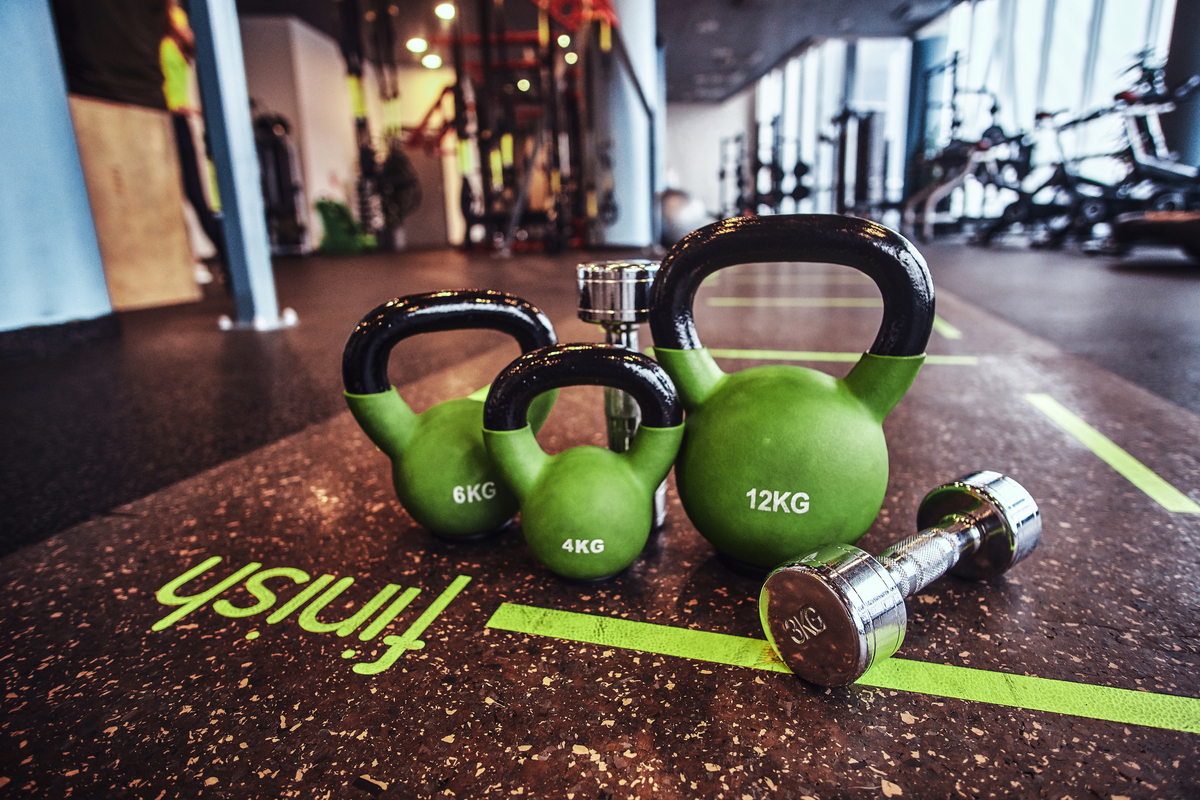
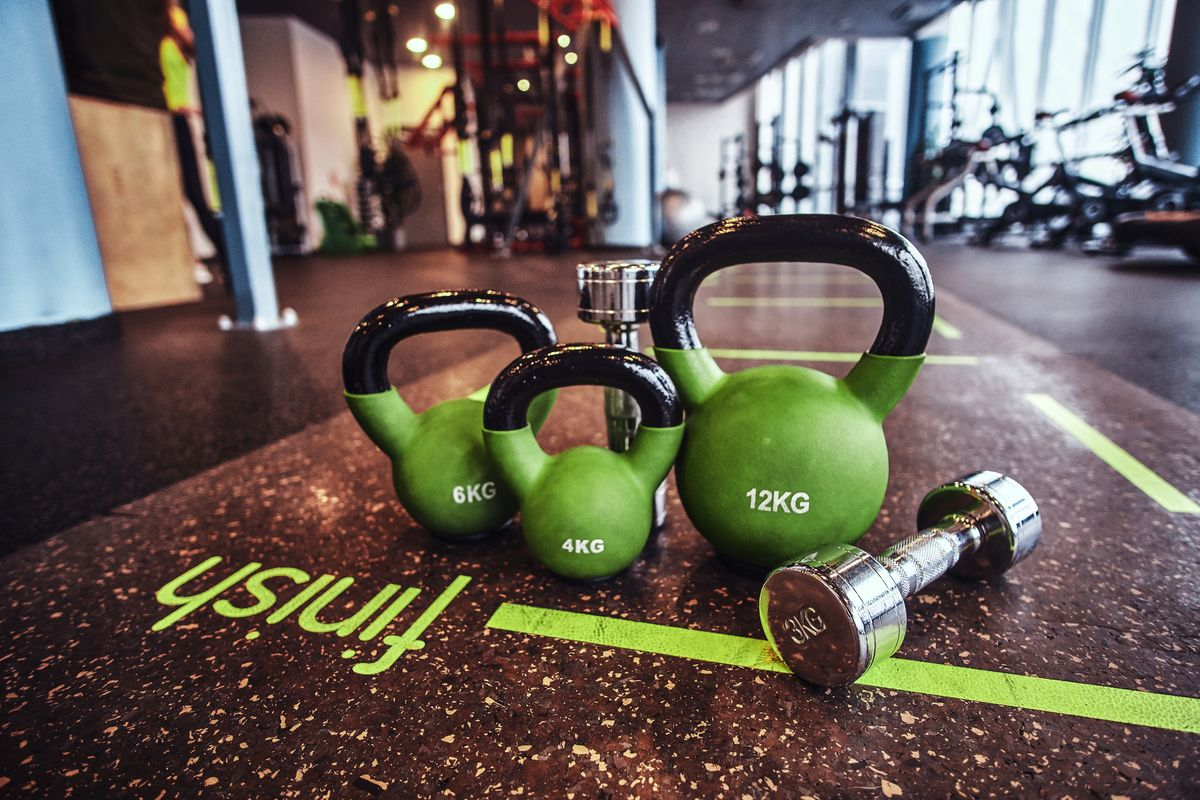
Tag titles updated for accessibility, image sizes reduced. README modified

diff --git a/memberships.html b/memberships.html
@@ -31,8 +31,8 @@
                         <a class="nav-link orange-navlink-divide" href="join.html">Join us</a>
                     </li>
 
-                    <li class="nav-item active">
-                        <a class="nav-link" href="memberships.html">Memberships</a>
+                    <li class="nav-item ">
+                        <a class="nav-link active" href="memberships.html">Memberships</a>
                     </li>
 
                 </ul>
@@ -51,7 +51,7 @@
             <div class="row membership-row ">
                 <div class="col-md-12 col-lg-4 membership-scale">
                     <div class="center">
-                        <img class="membership-img" src="assets/images/casual.jpg" alt="">
+                        <img class="membership-img" src="assets/images/casual.jpg" alt="Child measuring muscles">
                         <div class="membership-container membership-border-casual ">
                             <p class="casual price">€9,99</p>
                             <h1 class="casual">Casual</h1>
@@ -63,7 +63,7 @@
                 </div>
                 <div class="col-md-6 col-lg-4 membership-scale ">
                     <div class="center">
-                        <img class="membership-img" src="assets/images/moderate.jpg" alt="">
+                        <img class="membership-img" src="assets/images/moderate.jpg" alt=" Woman showing muscles">
                         <div class="membership-container membership-border-moderate ">
                             <p class="moderate price">€18,99</p>
                             <h1 class="moderate">Moderate</h1>
@@ -75,7 +75,7 @@
                 </div>
                 <div class="col-md-6 col-lg-4 membership-scale">
                     <div class="center">
-                        <img class="membership-img" src="assets/images/king.jpg" alt="">
+                        <img class="membership-img" src="assets/images/king.jpg" alt="Man showing muscles">
                         <div class="membership-container membership-border-king ">
                             <p class="king price">€25,99</p>
                             <h1 class="king">King</h1>

diff --git a/index.html b/index.html
@@ -79,9 +79,12 @@
                     </li>
                     <li class="footer-collapse">
                         <h1>Stay in touch</h1>
-                        <a href="https://www.instagram.com/" target="_blank"><i class="fab fa-instagram"></i></a>
-                        <a href="https://www.facebook.com/" target="_blank"><i class="fab fa-facebook"></i></a>
-                        <a href="https://twitter.com/" target="_blank"><i class="fab fa-twitter"></i></a>
+                        <a href="https://www.instagram.com/" target="_blank" aria-label="Link to Instagram"><i
+                                class="fab fa-instagram"></i></a>
+                        <a href="https://www.facebook.com/" target="_blank" aria-label="Link to Facebook"><i
+                                class="fab fa-facebook"></i></a>
+                        <a href="https://twitter.com/" target="_blank" aria-label="Link to Twitter"><i
+                                class="fab fa-twitter"></i></a>
                     </li>
                 </ul>
             </div>
@@ -289,9 +292,12 @@
         <section class="social-media">
             <div class="group">
                 <h1>Stay in touch</h1>
-                <a href="https://www.instagram.com/" target="_blank"><i class="fab fa-instagram"></i></a>
-                <a href="https://www.facebook.com/" target="_blank"><i class="fab fa-facebook"></i></a>
-                <a href="https://twitter.com/" target="_blank"><i class="fab fa-twitter"></i></a>
+                <a href="https://www.instagram.com/" target="_blank" aria-label="Link to Instagram"><i
+                        class="fab fa-instagram"></i></a>
+                <a href="https://www.facebook.com/" target="_blank" aria-label="Link to Facebook"><i
+                        class="fab fa-facebook"></i></a>
+                <a href="https://twitter.com/" target="_blank" aria-label="Link to Twitter"><i
+                        class="fab fa-twitter"></i></a>
             </div>
         </section>
         <div class="copyright">

diff --git a/join.html b/join.html
@@ -27,8 +27,8 @@
             </button>
             <div class="collapse load-fix navbar-collapse medium-height" id="navbarSupportedContent">
                 <ul class="navbar-nav">
-                    <li class="nav-item active">
-                        <a class="nav-link orange-navlink-divide" href="join.html">Join us</a>
+                    <li class="nav-item ">
+                        <a class="nav-link orange-navlink-divide active" href="join.html">Join us</a>
                     </li>
 
                     <li class="nav-item">
@@ -90,7 +90,7 @@
         </section>
         <section class="map">
             <iframe src="https://www.google.com/maps/d/u/0/embed?mid=14VJitbClzEYCp__4uO8ru5flUHZ_egAU" width="544"
-                height="408"></iframe>
+                height="408" title="King Gym location map"></iframe>
         </section>
     </main>
     <footer>

diff --git a/assets/css/style.css b/assets/css/style.css
@@ -587,6 +587,11 @@ width: 3.56em;
   .copyright p {
     font-size: 0.7em;
   }
+  /* memberships */
+
+  .membership-row{
+      width: 100%;
+  }
 }
 
 @media only screen and (max-width: 575.9px) {

diff --git a/README.md b/README.md
@@ -2,15 +2,22 @@
 
 # King Gym
 
-King Gym website is designed for current gym members and people looking to join a gym and wish to know more about the schedule, training available and all other information.
+King Gym website is designed for current members and people looking to join a gym and wish to know more about the schedule, training available and all other information.
 
 This is the first project in Code Institute Full Stack Developer program based on HTML, CSS and optional frameworks like Bootstrap.
 
 ## UX
 
 ### Main goals
+
 - Design a website for a new gym in Dublin city center. Implement a simple and clear design that makes it easy to access all important information outlined in the user stories.
 - Make the website responsive across all devices and browsers.
+- Make the website seem welcoming to any person regardless of age and experience level.
+
+### Research and design
+
+> .
+
 ### User stories
 
 1. As a potential **new** gym customer I want to easily find information on the following: locations, pricing, customer testimonials and contact details. Having an image gallery that showcases the look of the gym as well as the people that are attending is a plus. Idealy there would be an option to book a free training before having to commit.
@@ -50,47 +57,52 @@ This is the first project in Code Institute Full Stack Developer program based o
 - [Adobe XD](https://www.adobe.com/ie/products/xd.html) - used for frameworks
 - [Am I responsive](http://ami.responsivedesign.is/) - website look comparison above the project title
 - [Color palletes](https://colorpalettes.net/) - inspiration from which the main pallete theme was taken
-
+- [Ezgif](https://ezgif.com/) - Image resizing and optimisation
 ## Testing
 
-<!-- ### Responsiveness -->
+### Responsiveness
+
+> The website was designed for a laptop screen size first. Each section was then fully optimised for all screens before heading to the next one. I find it is easier to do it that way first and then just collapse the content for smaller screens. The page was viewed on different screen sizes along with using Chrome DevTools during creation. Minimum responsive width is 273px.
 
 ### Browser Compatibility
 
-> Testing will be done on main desktop browsers: Chrome, Firefox , Edge and Opera.
-> Testing will also be done on Chrome and Safari for mobile.
+> Testing for desktop was done on Mozilla, Google Chrome and Microsoft Edge. No errors were present apart from the navigation links being visible when active on Mozilla. This was fixed by giving the active class to the actual link instead of the container making the website fully functional.
 
+> Mobile testing was done on Safari, Samsung Internet and Google Chrome for mobile.   
 ### Code validation
 
 > All HTML and CSS has been validated using the W3C validator with no errors.
 
 ### Accessibility
 
-> Website was tested by WAVE accessibility assesment tool. There were no major issues apart from a few contrast errors. The colors were not changed since the backround of each location would have to be changed significantly to pass the WCAG standards.
+> Website was tested by WAVE accessibility assesment tool. There were no major issues apart from a few contrast errors. The colors were not changed since the backround of each location would have to be changed significantly to pass the WCAG standards. During testing it was shown that link and iframe tags do not have sufficient description of the content. This was fixed by adding aria-label and title attributes. Each image has alt text and semantic HTML was used when possible.
+
 
 ### Optimisation
 
-- Images were converted to JPG to make the load time quicker
-- Meta discription tag was added for better SEO
+- Images were converted to JPG to make the load time quicker.
+- Meta discription tag was added for better SEO.
 
+> Website was tested using Lighthouse in Chrome DevTools. It achieved a pretty good score of above 90 for each category. It was shown that certain images hinder the load time and they were resized which saved about 1.5 seconds loading time.
 ### Bugs
 
 - Mobile toggler menu was glitching before loading due to the clash between bootstrap and element styles when activated. This was fixed by adding important to the viewport height property.
 - Main headlines were not responsive when font size was changed in the browser settings. Fixed sizes were changed to ems which made everything scale proportionately. Putting the tricolor image inside the p tag allowed it to scale with the font size.
 - Media breakpoint at 575px max-width only worked up to 574px. The 1px difference is possibly caused by Bootstrap media styles. The issue was fixed by changing max-width to 575.9px.
-<!-- ## Deployment -->
+
+## Deployment 
 
 ## Credits
 
 ### Content
 
-> All textual content was made up and written by me.
+- All textual content was made up and written by me.
 
 ### Media
 
 - All icons were taken from [Flaticon](https://www.flaticon.com/) under a commercial licence.
 - All bigger media was taken from [Envato Elements](https://elements.envato.com/) under a commercial licence.
-
+- Main page video is edited by me using different Envato videos and combining them with transitions.
 ### Aknowledgements
 
 - My mentor Victor Miclovich for his unique insights.
